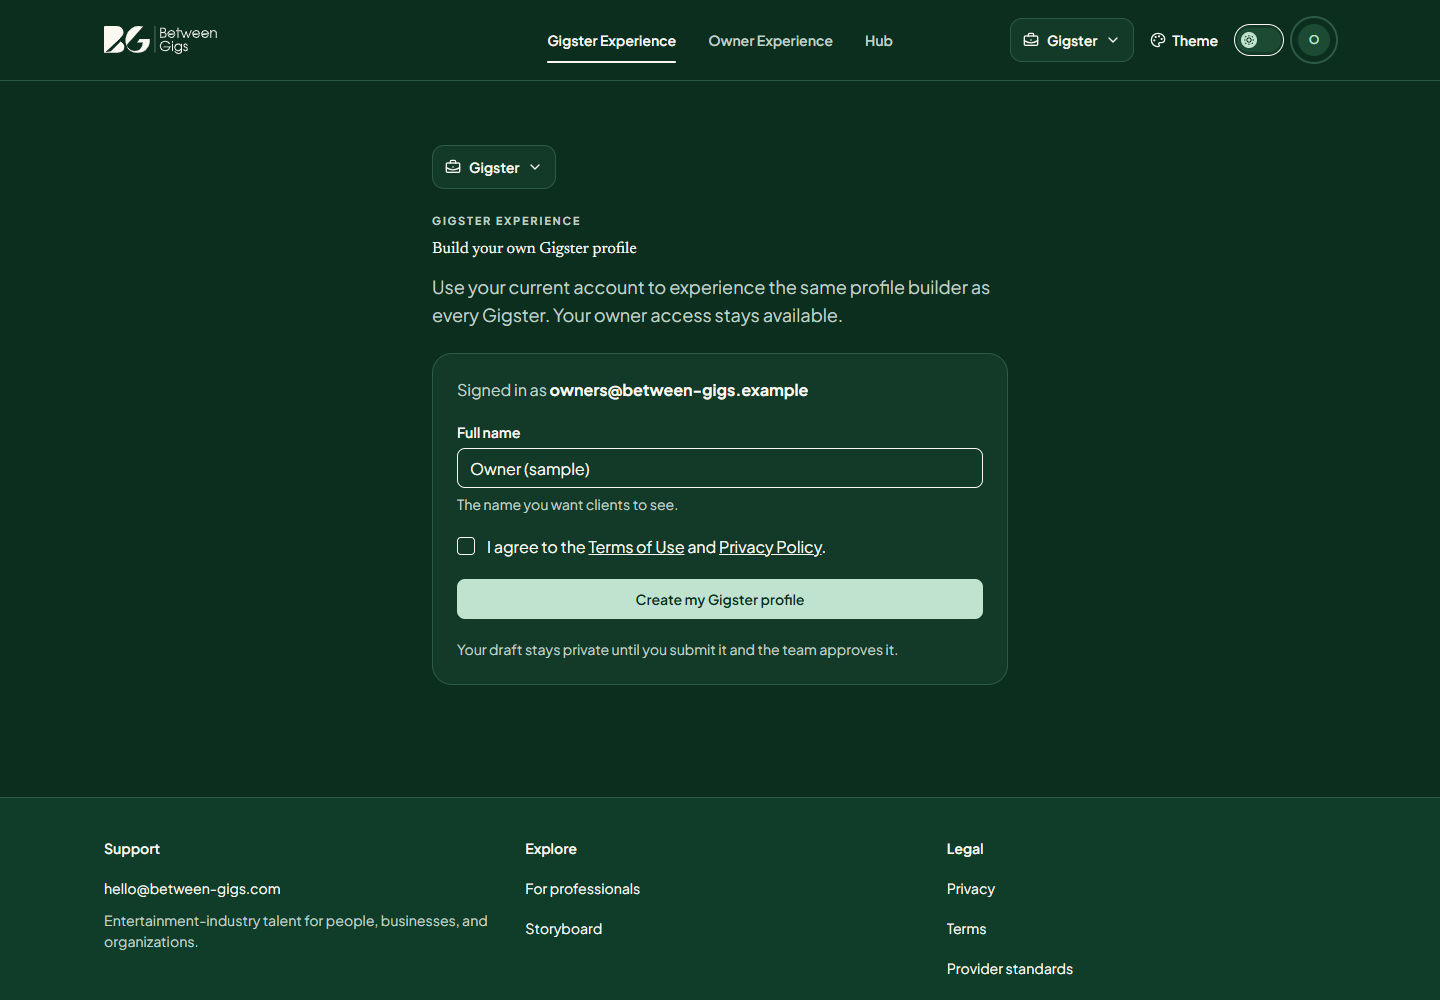
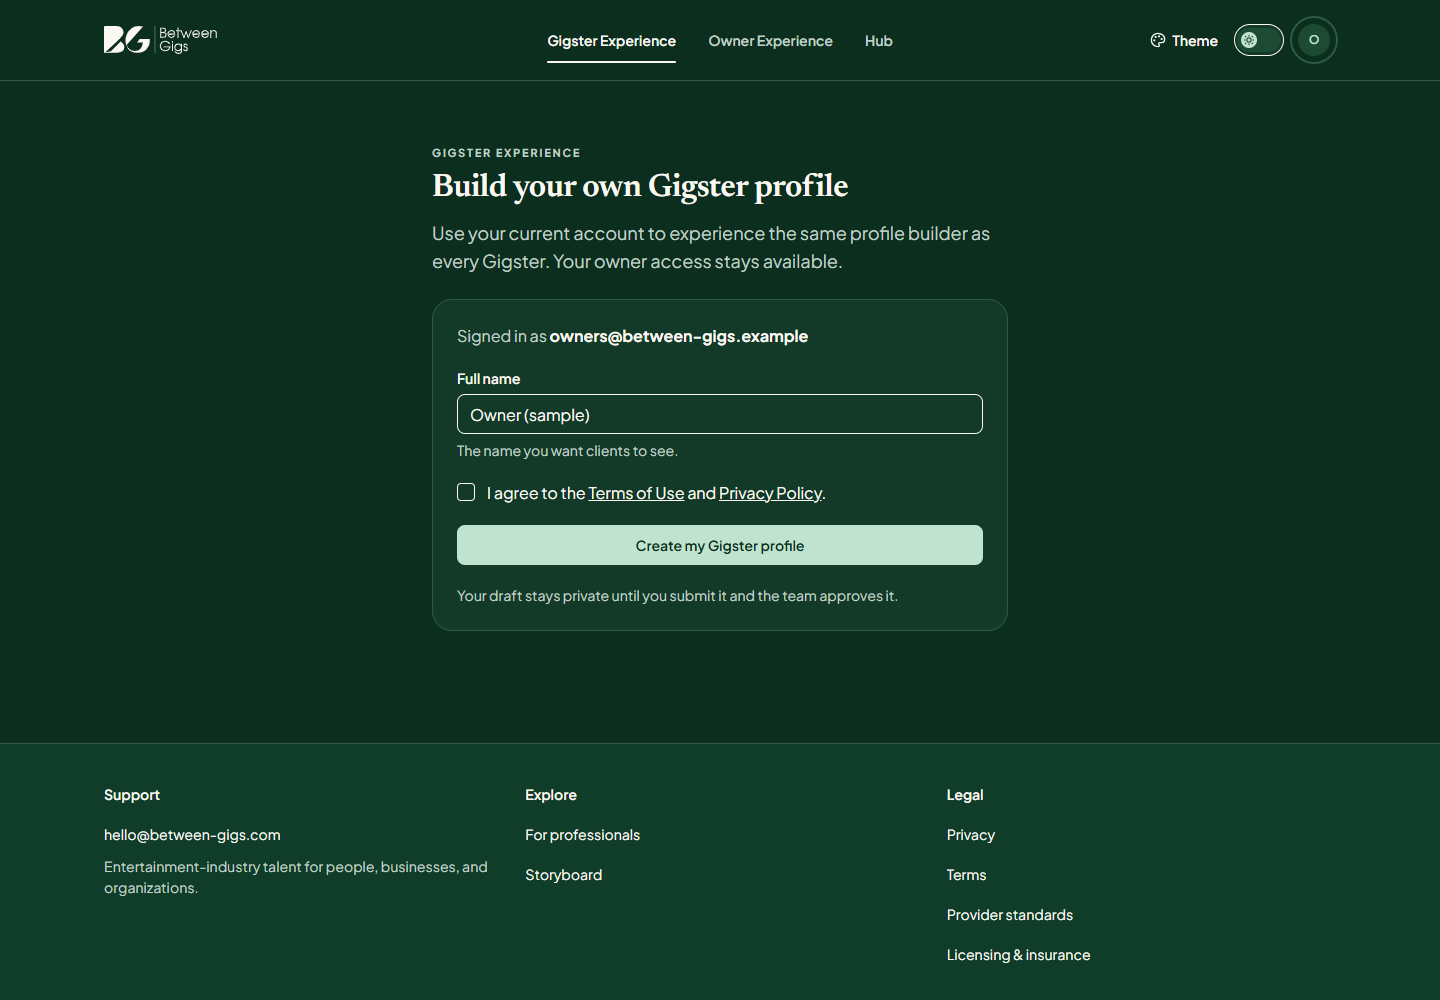
Refine responsive experience navigation and profile setup presentation

diff --git a/components/profile/GigsterAccess.tsx b/components/profile/GigsterAccess.tsx
@@ -6,7 +6,6 @@ import { data } from "@/lib/data";
 import { useSession } from "@/lib/session";
 import { NAME_MAX } from "@/lib/profile/validate";
 import { Page } from "@/components/site/Page";
-import { ExperienceSwitcher } from "@/components/site/ExperienceSwitcher";
 
 /** Admins explicitly create their own profile; no impersonation and no automatic policy acceptance. */
 export function GigsterAccess({ children }: { children: React.ReactNode }) {
@@ -33,9 +32,8 @@ export function GigsterAccess({ children }: { children: React.ReactNode }) {
   };
   return <Page>
     <div className="mx-auto grid max-w-xl gap-6 py-8">
-      <ExperienceSwitcher />
       <div><p className="text-eyebrow text-ink-muted uppercase">Gigster Experience</p>
-        <h1 className="mt-2 font-display text-heading-xl text-ink">Build your own Gigster profile</h1>
+        <h1 className="mt-2 font-display text-display-sm text-ink">Build your own Gigster profile</h1>
         <p className="mt-3 text-body-lg text-ink-muted">Use your current account to experience the same profile builder as every Gigster. Your owner access stays available.</p></div>
       <form onSubmit={submit} className="grid gap-5 rounded-2xl border border-line bg-surface p-6">
         <p className="text-body-md text-ink-muted">Signed in as <strong className="text-ink">{session.email}</strong></p>

diff --git a/components/site/ExperienceSwitcher.tsx b/components/site/ExperienceSwitcher.tsx
@@ -20,9 +20,9 @@ export function ExperienceSwitcher({ className }: { className?: string }) {
   if (session?.role !== "owner") return null;
   const selected = pathname.startsWith("/profile") ? 0 : pathname.startsWith("/hub") || pathname.startsWith("/preview") || (basePath === "/hub" && pathname === "/") ? 2 : 1;
   const CurrentIcon = experiences[selected].icon;
-  return <Menu align="end" className={className}
+  return <span className={className}><Menu align="end"
     items={experiences.map((item, i) => ({ label: item.label, icon: <item.icon />, checked: i === selected || undefined, onSelect: () => { if (data.kind === "live" && item.href === "/hub/") window.location.assign(item.href); else router.push(basePath === "/hub" && item.href === "/hub/" ? "/" : item.href); } }))}
     trigger={<button type="button" aria-label="Switch experience" className={cx("inline-flex min-h-11 shrink-0 items-center gap-2 rounded-lg border border-line bg-surface px-3 text-label-md text-ink hover:bg-surface-hover")}>
       <CurrentIcon aria-hidden="true" className="size-4" /><span>{experiences[selected].short}</span><ChevronDown aria-hidden="true" className="size-4" />
-    </button>} />;
+    </button>} /></span>;
 }

diff --git a/components/site/PreviewAccess.tsx b/components/site/PreviewAccess.tsx
@@ -15,5 +15,5 @@ export function PreviewAccess() {
     if (data.kind === "sample" && basePath !== "/hub" && target !== "/hub/") target = target.replace(/^\/hub(?=\/)/, "");
     window.location.replace(basePath === "/hub" ? target : basePath + target);
   }, []);
-  return <Page><div className="mx-auto grid max-w-xl gap-4 py-20 text-center"><h1 className="font-display text-heading-xl text-ink">Opening the Hub</h1><p className="text-body-md text-ink-muted">The Hub is open for testing. No sign-in is needed.</p><ButtonLink href={basePath === "/hub" ? "/" : "/hub/"}>Open Hub</ButtonLink></div></Page>;
+  return <Page><div className="mx-auto grid max-w-xl gap-4 py-20 text-center"><h1 className="font-display text-display-sm text-ink">Opening the Hub</h1><p className="text-body-md text-ink-muted">The Hub is open for testing. No sign-in is needed.</p><ButtonLink href={basePath === "/hub" ? "/" : "/hub/"}>Open Hub</ButtonLink></div></Page>;
 }
